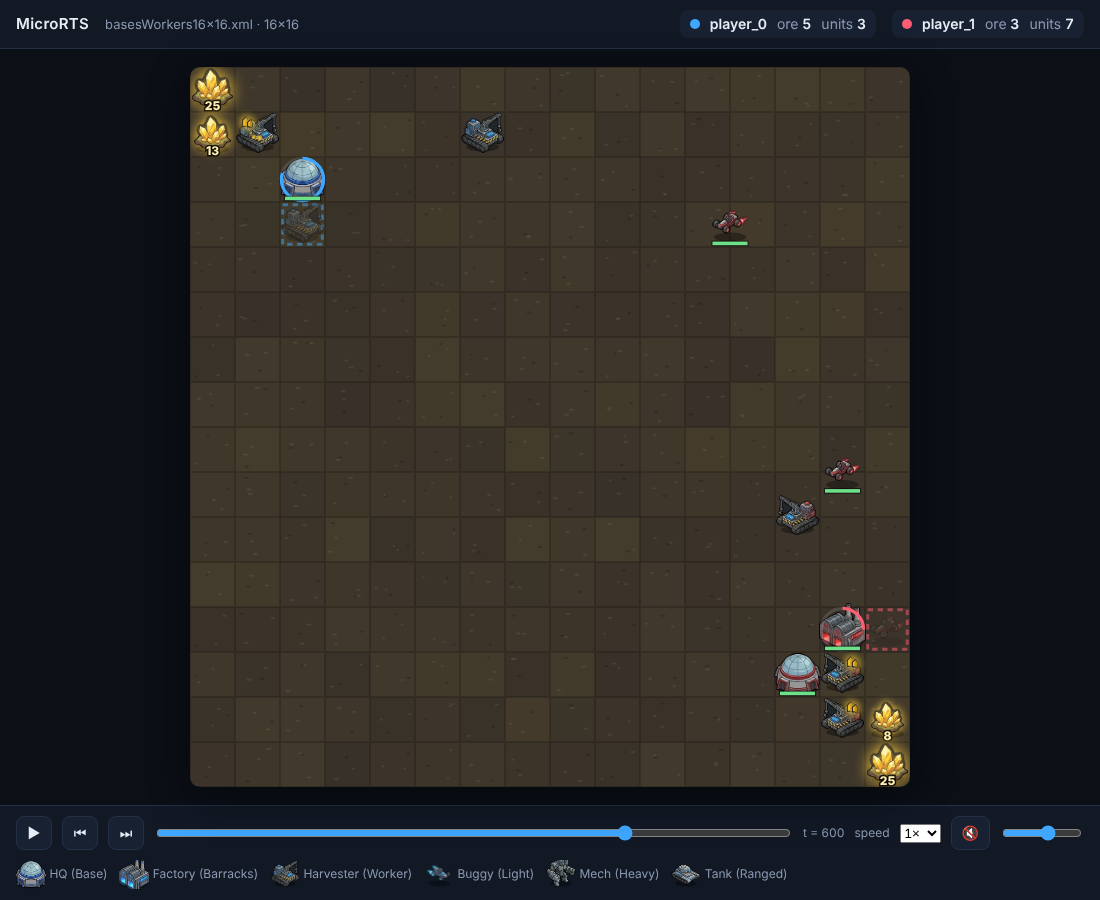
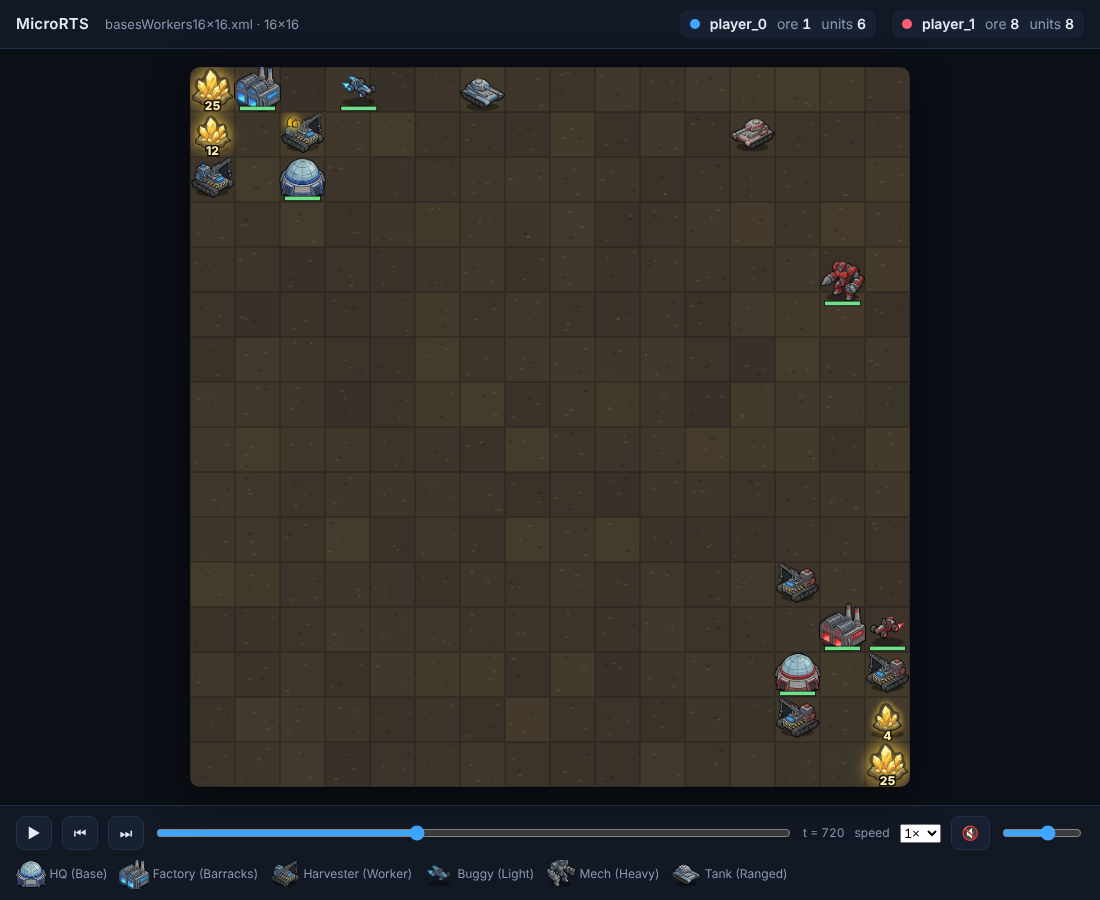
Show every unit type in the sample games; run parity only on rule changes
WorkerRushBot's army can now be a sequence that the barracks trains in
turn. replay_bots.py defaults to --opponent mixed, where both sides build
a barracks and train Light, Heavy and Ranged units, and the Pages site
uses it for both sample replays (basesWorkers16x16 and letMeOut, which has
walls). A test checks both sides build all six types.

The Java parity job moves to its own workflow that runs only when the
engine, unit table, maps or parity tools change, or on demand.

Claude-Session: https://claude.ai/code/session_017XfcmLXvoAChBbNb37naRZ

diff --git a/docs/site/index.html b/docs/site/index.html
@@ -77,8 +77,8 @@
   <div class="demo">
     <iframe src="replay.html" title="Sample MicroRTS replay" loading="lazy"></iframe>
     <div class="cap">
-      <span>Worker rush (blue) vs. light-unit rush (red) on <code>basesWorkers16x16</code>, played by the bundled bots.</span>
-      <span>Space: play/pause · ←/→: step · m: sound · <a href="replay-random.html">another game</a></span>
+      <span>Two bundled bots on <code>basesWorkers16x16</code>, each building every unit and structure type.</span>
+      <span>Space: play/pause · ←/→: step · m: sound · <a href="replay-2.html">another game</a></span>
     </div>
   </div>
 

diff --git a/microrts_pz/bots.py b/microrts_pz/bots.py
@@ -10,6 +10,7 @@ partial observability. ``WorkerRushBot`` is a simplified take on MicroRTS's
 from __future__ import annotations
 
 from collections import deque
+from collections.abc import Sequence
 
 import numpy as np
 
@@ -49,11 +50,14 @@ class WorkerRushBot:
     With ``army="Light"`` (or ``"Heavy"``/``"Ranged"``) a harvester builds one
     barracks once it can afford it, the base trains only enough workers to
     keep the economy going, and the barracks trains that unit type instead.
+    ``army`` may also be a sequence such as ``("Light", "Heavy", "Ranged")``,
+    which the barracks trains in turn.
     """
 
-    def __init__(self, harvesters: int = 1, army: str | None = None):
+    def __init__(self, harvesters: int = 1, army: str | Sequence[str] | None = None):
         self.harvesters = harvesters
-        self.army = army
+        self.army = (army,) if isinstance(army, str) else tuple(army) if army else None
+        self._next_unit = 0
 
     # -- helpers
     @staticmethod
@@ -124,11 +128,14 @@ class WorkerRushBot:
                 if u.type.is_stockpile:
                     wanted = "Worker" if self.army is None or len(workers) < self.harvesters + 1 else None
                 else:
-                    wanted = self.army or "Light"
+                    army = self.army or ("Light",)
+                    wanted = army[self._next_unit % len(army)]
                 options = [a for a in produces if a.unit_type.name == wanted]
                 if options:
                     a = options[0]
                     row[0], row[4], row[5] = TYPE_PRODUCE, a.parameter, a.unit_type.id
+                    if not u.type.is_stockpile:
+                        self._next_unit += 1
                 continue
             if want_barracks and u.id in harvester_ids:
                 options = [a for a in produces if a.unit_type.name == "Barracks"]

diff --git a/examples/replay_bots.py b/examples/replay_bots.py
@@ -1,4 +1,7 @@
-"""Play a worker rush against a light-unit rush (or another bot) and save an HTML replay with sound.
+"""Play two scripted bots against each other and save an HTML replay with sound.
+
+The default ``--opponent mixed`` has both sides build a barracks and train
+Light, Heavy and Ranged units in turn, so every unit and structure type appears.
 
     python examples/replay_bots.py --map maps/16x16/basesWorkers16x16.xml --out replay.html
     python examples/replay_bots.py --live          # watch in the browser while it runs
@@ -15,7 +18,7 @@ def main():
     ap.add_argument("--map", default="maps/16x16/basesWorkers16x16.xml")
     ap.add_argument("--out", default="replay.html")
     ap.add_argument("--max-steps", type=int, default=2000)
-    ap.add_argument("--opponent", choices=["light", "rush", "random"], default="light")
+    ap.add_argument("--opponent", choices=["mixed", "light", "rush", "random"], default="mixed")
     ap.add_argument("--live", action="store_true", help="stream to the browser viewer instead of writing a file")
     ap.add_argument("--seed", type=int, default=0)
     args = ap.parse_args()
@@ -26,7 +29,9 @@ def main():
         render_mode="human" if args.live else None,
         record_replay=True,
     )
-    bots = {"player_0": WorkerRushBot(), "player_1": {
+    mixed = args.opponent == "mixed"
+    bots = {"player_0": WorkerRushBot(harvesters=2, army=("Heavy", "Ranged", "Light")) if mixed else WorkerRushBot(), "player_1": {
+        "mixed": WorkerRushBot(harvesters=2, army=("Light", "Ranged", "Heavy")),
         "light": WorkerRushBot(harvesters=2, army="Light"),
         "rush": WorkerRushBot(),
         "random": RandomBot(args.seed),

diff --git a/tests/test_render.py b/tests/test_render.py
@@ -70,3 +70,19 @@ def test_bots_produce_valid_games():
     while env.agents:
         _, _, _, _, infos = env.step({a: bots[i].act(game, i) for i, a in enumerate(env.possible_agents)})
     assert infos["player_0"].get("winner") == "player_0"
+
+
+def test_mixed_army_bots_build_every_unit_type():
+    # the sample replays rely on this to show every sprite
+    env = microrts_v0.parallel_env(map_path="maps/16x16/basesWorkers16x16.xml", max_steps=2000)
+    env.reset(seed=0)
+    game = env.unwrapped.game
+    bots = [WorkerRushBot(harvesters=2, army=("Heavy", "Ranged", "Light")), WorkerRushBot(harvesters=2, army=("Light", "Ranged", "Heavy"))]
+    seen = [set(), set()]
+    while env.agents:
+        env.step({a: bots[i].act(game, i) for i, a in enumerate(env.possible_agents)})
+        for u in game.gs.units:
+            if u.player >= 0:
+                seen[u.player].add(u.type.name)
+    everything = {"Base", "Barracks", "Worker", "Light", "Heavy", "Ranged"}
+    assert seen == [everything, everything]

diff --git a/README.md b/README.md
@@ -136,7 +136,7 @@ and scrub back while the game keeps running. Set `MICRORTS_NO_BROWSER=1` to
 skip opening a browser, and pass `viewer_port=` to pick the port.
 
 ```bash
-python examples/replay_bots.py --out replay.html    # worker rush vs. light rush, saved
+python examples/replay_bots.py --out replay.html    # mixed armies, every unit type, saved
 python examples/replay_bots.py --live               # the same game, live
 ```
 
@@ -152,7 +152,8 @@ text board.
 ## Bots
 
 `microrts_pz.bots` has `RandomBot` (random valid actions) and `WorkerRushBot`,
-which can also build barracks and rush with Light, Heavy or Ranged units.
+which can also build barracks and rush with Light, Heavy or Ranged units
+(or cycle through several, e.g. `army=("Light", "Heavy", "Ranged")`).
 These are sparring partners for testing. They read the engine state
 directly and are not tuned AIs.
 
@@ -178,9 +179,9 @@ python tools/parity/check_parity.py --microrts /tmp/MicroRTS --episodes 2 --step
 ```
 
 The default sweep (7 maps, unit-table versions 1 and 2, full and partial
-observability) matches the Java engine on every tick. CI runs it on each
-push. The port keeps the Java engine's quirks so trajectories match, for
-example:
+observability) matches the Java engine on every tick. CI runs it whenever
+the engine, unit table or maps change. The port keeps the Java engine's
+quirks so trajectories match, for example:
 
 - Player 0's actions are issued first, so a player 1 move into a cell that
   player 0 just claimed is dropped.
